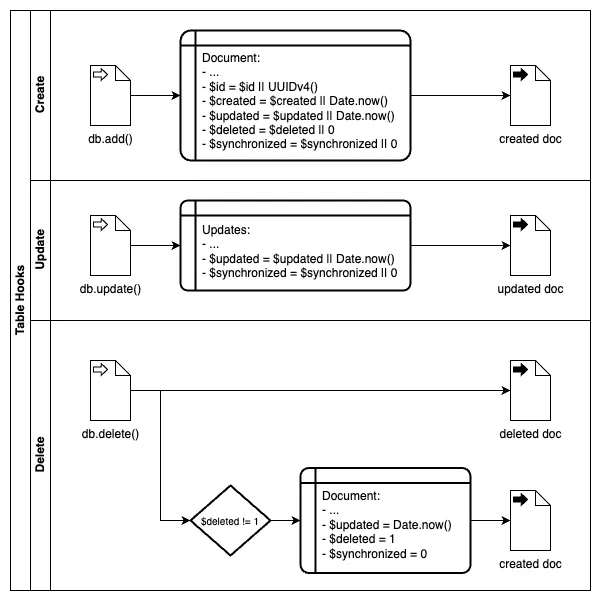
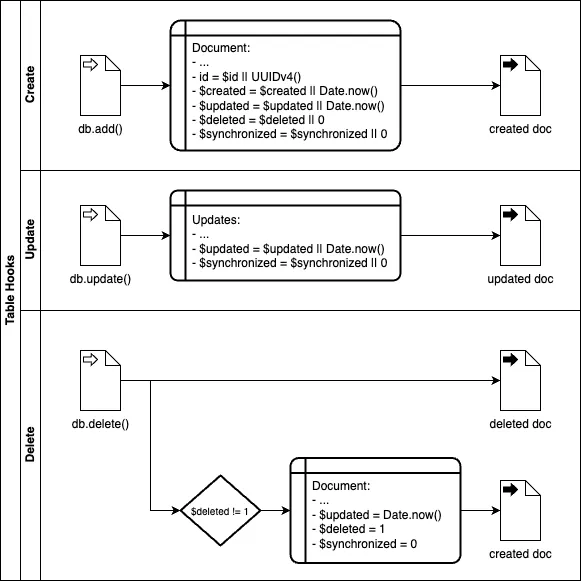
fix $id > id
related to #15

Changed region(s): [[0.0, 0.0, 1.0, 1.0]]

diff --git a/lib/syncFromRemote.js b/lib/syncFromRemote.js
@@ -48,7 +48,7 @@ export default async function syncFromRemote(table, path, api, remoteTable, filt
             if (remoteDoc.$deleted) {
 
               // Delete local doc
-              await table.delete(remoteDoc.$id)
+              await table.delete(remoteDoc.id)
 
             }
 
